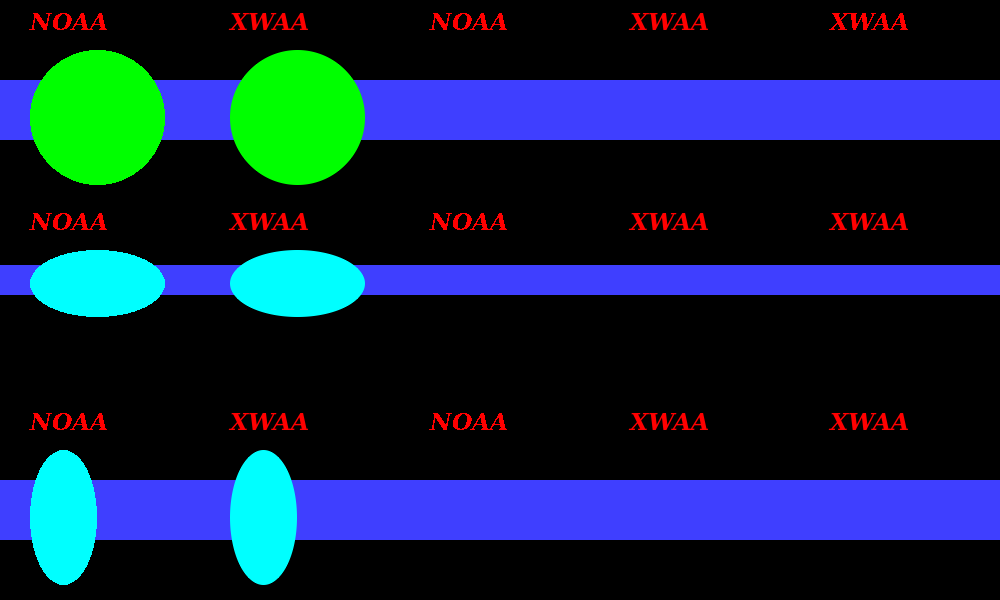
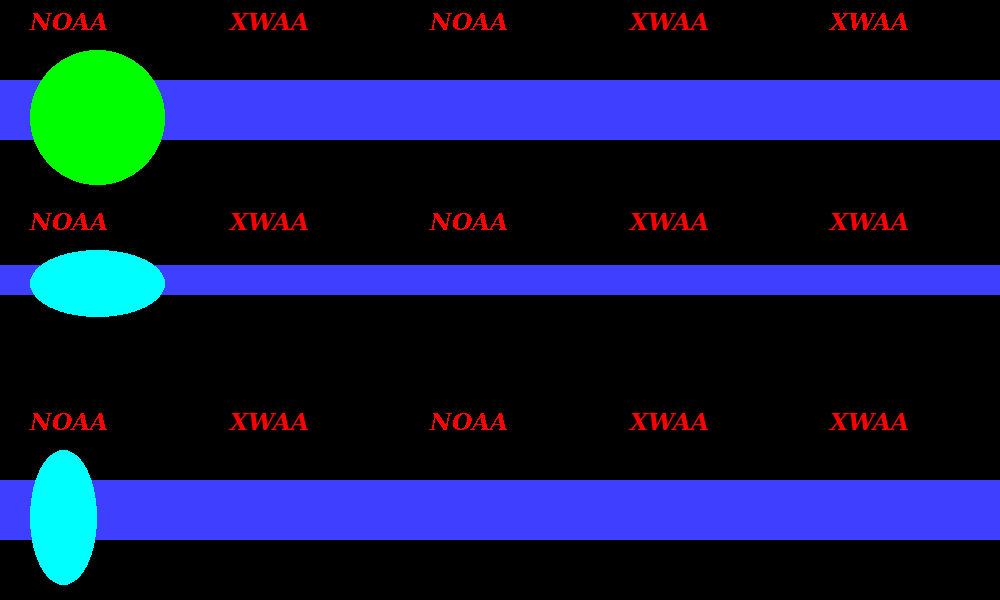
Reducing memory usage in fillEllipse

Changed region(s): [[0.217, 0.06, 0.372, 0.33], [0.217, 0.75, 0.31, 0.99], [0.217, 0.39, 0.372, 0.54]]

diff --git a/src/Pt-Gfx/ImagePainter2.cpp b/src/Pt-Gfx/ImagePainter2.cpp
@@ -231,6 +231,18 @@ void ImagePainter2::drawEllipse( const PointF& topLeft, const SizeF& size )
 // Inspired by http://create.stephan-brumme.com/antialiased-circle
 void ImagePainter2::fillEllipse( const PointF& topLeft, const SizeF& size )
 {
+/*
+Pt::Gfx - CompositionMode::SourceCopy
+    Solid-filled    ellipse          @ ImagePainter  =      5
+    Solid-filled    ellipse NOAA     @ ImagePainter2 =      6 ( 1.200)
+    Solid-filled    ellipse XWAA     @ ImagePainter2 =     36 ( 7.200)
+
+Pt::Gfx - CompositionMode::SourceOver
+    Solid-filled    ellipse          @ ImagePainter  =     37
+    Solid-filled    ellipse NOAA     @ ImagePainter2 =     24 ( 0.649)
+    Solid-filled    ellipse XWAA     @ ImagePainter2 =     54 ( 1.459)
+*/
+
     // Update the gradient as needed
     _rasterizer->updateGradientBrushAsNeeded(size.width(), size.height());
 
@@ -242,7 +254,7 @@ void ImagePainter2::fillEllipse( const PointF& topLeft, const SizeF& size )
 
     // List of anti-aliased 4-pixels and spans to be drawn later
     std::vector<AA4Pixels> aa4Pixels;
-    std::vector<AASpan>    aaSpans;
+    AASpans                aaSpans;
 
     // Calculate the ellipse's parameters
     Pt::int32_t minX  = topLeft.x();
@@ -258,55 +270,68 @@ void ImagePainter2::fillEllipse( const PointF& topLeft, const SizeF& size )
     Pt::int32_t quarters = round( radX2 * fastInvSqrt(radX2 + radY2) );
 
     for(Pt::int32_t x = 0; x <= quarters; ++x) {
+        // Calculate the coordinate and alpha
         const float       y     = radY * fastSqrt(1 - (float) x * x / radX2);
-        const float       error = y - floor(y);
+        const Pt::int32_t fly   = floor(y);
+        const float       error = y - fly;
         const Pt::uint8_t alpha = round(error * 255);
-        aa4Pixels.push_back( AA4Pixels( ctrX, ctrY, x, floor(y),     255 - alpha ) );
-        aa4Pixels.push_back( AA4Pixels( ctrX, ctrY, x, floor(y) + 1,       alpha ) );
-        aaSpans  .push_back( AASpan   ( ctrX - x, ctrX + x, ctrY - floor(y)      ) );
-        aaSpans  .push_back( AASpan   ( ctrX - x, ctrX + x, ctrY + floor(y)      ) );
+        // Store the circumference's pixel coordinates
+        aa4Pixels.push_back( AA4Pixels( ctrX, ctrY, x, fly,     255 - alpha ) );
+        aa4Pixels.push_back( AA4Pixels( ctrX, ctrY, x, fly + 1,       alpha ) );
+        // Store/update the span coordinates
+        AASpans::iterator it1 = aaSpans.find(ctrY - fly);
+        AASpans::iterator it2 = aaSpans.find(ctrY + fly);
+        if(it1 == aaSpans.end()) { // Insert a new element
+            aaSpans.insert( std::make_pair( ctrY - fly, AASpanElement(ctrX - x, ctrX + x) ) );
+        }
+        else { // Update the span's "from" and "to" coordinates
+            if( ctrX - x < it1->second.from ) it1->second.from = ctrX - x;
+            if( ctrX + x > it1->second.to   ) it1->second.to   = ctrX + x;
+        }
+        if(it2 == aaSpans.end()) { // Insert a new element
+            aaSpans.insert( std::make_pair( ctrY + fly, AASpanElement(ctrX - x, ctrX + x) ) );
+        }
+        else { // Update the span's "from" and "to" coordinates
+            if( ctrX - x < it2->second.from ) it2->second.from = ctrX - x;
+            if( ctrX + x > it2->second.to   ) it2->second.to   = ctrX + x;
+        }
     }
 
     // Left and right halves
     quarters = round( radY2 * fastInvSqrt(radX2 + radY2) );
 
     for(Pt::int32_t y = 0; y <= quarters; ++y) {
+        // Calculate the coordinate and alpha
         const float       x     = radX * fastSqrt(1 - (float) y * y / radY2);
-        const float       error = x - floor(x);
+        const Pt::int32_t flx   = floor(x);
+        const float       error = x - flx;
         const Pt::uint8_t alpha = round(error * 255);
-        aa4Pixels.push_back( AA4Pixels( ctrX, ctrY, floor(x),     y, 255 - alpha   ) );
-        aa4Pixels.push_back( AA4Pixels( ctrX, ctrY, floor(x) + 1, y,       alpha   ) );
-        aaSpans  .push_back( AASpan   ( ctrX - floor(x), ctrX + floor(x), ctrY - y ) );
-        aaSpans  .push_back( AASpan   ( ctrX - floor(x), ctrX + floor(x), ctrY + y ) );
-    }
+        // Store the circumference's pixel coordinates
+        aa4Pixels.push_back( AA4Pixels( ctrX, ctrY, flx,     y, 255 - alpha   ) );
+        aa4Pixels.push_back( AA4Pixels( ctrX, ctrY, flx + 1, y,       alpha   ) );
 
-    // Sort the spans by ascending Y coordinates
-    std::sort(aaSpans.begin(), aaSpans.end());
-
-    // Combine multiple spans with the same Y coordinates into one
-    std::vector<AASpan> aaSpansCombined;
-    Pt::int32_t         prevPixelY = ImagePainter2::MaximumCoordinate;
-
-    for(std::vector<AASpan>::const_iterator it = aaSpans.begin(); it != aaSpans.end(); ++it) {
-        // Skip spans that are too short
-        if(it->to - it->from <= 2) continue;
-        // Check if it is on the same Y coordinate
-        if(prevPixelY == it->pixelY) {
-            // Update the span's "from" and "to" coordinates
-            if(it->from < aaSpansCombined.back().from) aaSpansCombined.back().from = it->from;
-            if(it->to   > aaSpansCombined.back().to  ) aaSpansCombined.back().to   = it->to;
-            continue;
+        // Store/update the span coordinates
+        AASpans::iterator it1 = aaSpans.find(ctrY - y);
+        AASpans::iterator it2 = aaSpans.find(ctrY + y);
+        if(it1 == aaSpans.end()) { // Insert a new element
+            aaSpans.insert( std::make_pair( ctrY - y, AASpanElement(ctrX - flx, ctrX + flx) ) );
         }
-        prevPixelY = it->pixelY;
-        // Strore the span
-        aaSpansCombined.push_back(*it);
+        else { // Update the span's "from" and "to" coordinates
+            if( ctrX - flx < it1->second.from ) it1->second.from = ctrX - flx;
+            if( ctrX + flx > it1->second.to   ) it1->second.to   = ctrX + flx;
+        }
+        if(it2 == aaSpans.end()) { // Insert a new element
+            aaSpans.insert( std::make_pair( ctrY + y, AASpanElement(ctrX - flx, ctrX + flx) ) );
+        }
+        else { // Update the span's "from" and "to" coordinates
+            if( ctrX - flx < it2->second.from ) it2->second.from = ctrX - flx;
+            if( ctrX + flx > it2->second.to   ) it2->second.to   = ctrX + flx;
+        }
     }
-
-    aaSpans.clear();
 
     // Draw the spans
-    for(std::vector<AASpan>::const_iterator it = aaSpansCombined.begin(); it != aaSpansCombined.end(); ++it) {
-        _rasterizer->fillOneScanlineNoAA(it->from, it->to, it->pixelY, minX, minY);
+    for(AASpans::const_iterator it = aaSpans.begin(); it != aaSpans.end(); ++it) {
+        _rasterizer->fillOneScanlineNoAA(it->second.from, it->second.to, it->first, minX, minY);
     }
 
     // Draw the pixels
@@ -317,14 +342,14 @@ void ImagePainter2::fillEllipse( const PointF& topLeft, const SizeF& size )
         const Pt::int32_t y1 = it->centerY - it->deltaY;
         const Pt::int32_t y2 = it->centerY + it->deltaY;
         // Check if the pixels shall really be drawn
+        AASpans::iterator it1 = aaSpans.find(y1);
+        AASpans::iterator it2 = aaSpans.find(y2);
+
         bool drawIt = true;
-        for(std::vector<AASpan>::const_iterator jt = aaSpansCombined.begin(); jt != aaSpansCombined.end(); ++jt) {
-            if(jt->pixelY != y1 && jt->pixelY != y2) continue;
-            if(jt->from <= x1 || jt->to >= x2) {
-                drawIt = false;
-                break;
-            }
-        }
+
+        if( it1 != aaSpans.end() && (it1->second.from <= x1 || it1->second.to >= x2) ) drawIt = false;
+        if( it2 != aaSpans.end() && (it2->second.from <= x1 || it2->second.to >= x2) ) drawIt = false;
+
         if(!drawIt) continue;
         // Draw the pixel
         _rasterizer->fill4Pixels(x1, y1, x2, y2, minX, minY, it->alpha);
@@ -402,16 +427,19 @@ void ImagePainter2::drawOnePixelSolidEllipseArcImpl(const PointF& topLeft, const
     Pt::int32_t quarters = round( radX2 * fastInvSqrt(radX2 + radY2) );
 
     for(Pt::int32_t x = 0; x <= quarters; ++x) {
+        // Calculate the coordinate and alpha
         const float       y     = radY * fastSqrt(1 - (float) x * x / radX2);
         const float       error = y - floor(y);
         const Pt::uint8_t alpha = round(error * 255);
         // Without anti-aliasing
         if(_rasterizer->antiAliasingMode() == AntiAliasingMode::None) {
+            // Calculate the coordinates
             const Pt::int32_t xl = ctrX - x;
             const Pt::int32_t xr = ctrX + x;
             const Pt::int32_t yt = ctrY - round(y);
             const Pt::int32_t yb = ctrY + round(y);
-             if(drawArc) {
+            // Arc
+            if(drawArc) {
                  // Draw the pixels
                  const bool mask[4] = {
                      insideDegRange(xl, yt, ctrX, ctrY, degBegin, degEnd),
@@ -431,19 +459,22 @@ void ImagePainter2::drawOnePixelSolidEllipseArcImpl(const PointF& topLeft, const
                 if(abs(yb - by) < y1d) { y1d = abs(yb - by); y1 = yb; }
                 if(abs(yb - ey) < y2d) { y2d = abs(yb - ey); y2 = yb; }
              }
-             else { // Ellipse
+             // Ellipse
+             else {
                 _rasterizer->stroke4Pixels(xl, yt, xr, yb);
              }
         }
         // With anti-aliasing
         else {
+            // Calculate the coordinates
             const Pt::int32_t xl  = ctrX - x;
             const Pt::int32_t xr  = ctrX + x;
             const Pt::int32_t yt0 = ctrY - floor(y);
             const Pt::int32_t yb0 = ctrY + floor(y);
             const Pt::int32_t yt1 = ctrY - floor(y) - 1;
             const Pt::int32_t yb1 = ctrY + floor(y) + 1;
-             if(drawArc) {
+            // Arc
+            if(drawArc) {
                  // Draw the pixels
                  const bool mask0[4] = {
                      insideDegRange(xl, yt0, ctrX, ctrY, degBegin, degEnd),
@@ -473,11 +504,12 @@ void ImagePainter2::drawOnePixelSolidEllipseArcImpl(const PointF& topLeft, const
                 if(abs(yt1 - ey) < y2d) { y2d = abs(yt1 - ey); y2 = yt1; }
                 if(abs(yb1 - by) < y1d) { y1d = abs(yb1 - by); y1 = yb1; }
                 if(abs(yb1 - ey) < y2d) { y2d = abs(yb1 - ey); y2 = yb1; }
-             }
-             else { // Ellipse
+            }
+            // Ellipse
+            else {
                 _rasterizer->stroke4Pixels(xl, yt0, xr, yb0, 255 - alpha);
                 _rasterizer->stroke4Pixels(xl, yt1, xr, yb1,       alpha);
-             }
+            }
         }
     }
 
@@ -485,16 +517,19 @@ void ImagePainter2::drawOnePixelSolidEllipseArcImpl(const PointF& topLeft, const
     quarters = round( radY2 * fastInvSqrt(radX2 + radY2) );
 
     for(Pt::int32_t y = 0; y <= quarters; ++y) {
+        // Calculate the coordinate and alpha
         const float       x     = radX * fastSqrt(1 - (float) y * y / radY2);
         const float       error = x - floor(x);
         const Pt::uint8_t alpha = round(error * 255);
         // Without anti-aliasing
         if(_rasterizer->antiAliasingMode() == AntiAliasingMode::None) {
+            // Calculate the coordinates
             const Pt::int32_t xl = ctrX - round(x);
             const Pt::int32_t xr = ctrX + round(x);
             const Pt::int32_t yt = ctrY - y;
             const Pt::int32_t yb = ctrY + y;
-             if(drawArc) {
+            // Arc
+            if(drawArc) {
                  // Draw the pixels
                  const bool mask[4] = {
                      insideDegRange(xl, yt, ctrX, ctrY, degBegin, degEnd),
@@ -514,20 +549,22 @@ void ImagePainter2::drawOnePixelSolidEllipseArcImpl(const PointF& topLeft, const
                 if(abs(yb - by) < y1d) { y1d = abs(yb - by); y1 = yb; }
                 if(abs(yb - ey) < y2d) { y2d = abs(yb - ey); y2 = yb; }
              }
-             else { // Ellipse
+             // Ellipse
+             else {
                 _rasterizer->stroke4Pixels(xl, yt, xr, yb);
              }
-
         }
         // With anti-aliasing
         else {
+            // Calculate the coordinates
             const Pt::int32_t xl0 = ctrX - floor(x);
             const Pt::int32_t xr0 = ctrX + floor(x);
             const Pt::int32_t xl1 = ctrX - floor(x) - 1;
             const Pt::int32_t xr1 = ctrX + floor(x) + 1;
             const Pt::int32_t yt  = ctrY - y;
             const Pt::int32_t yb  = ctrY + y;
-             if(drawArc) {
+            // Arc
+            if(drawArc) {
                  // Draw the pixels
                  const bool mask0[4] = {
                      insideDegRange(xl0, yt, ctrX, ctrY, degBegin, degEnd),
@@ -557,11 +594,12 @@ void ImagePainter2::drawOnePixelSolidEllipseArcImpl(const PointF& topLeft, const
                 if(abs(yt  - ey) < y2d) { y2d = abs(yt  - ey); y2 = yt;  }
                 if(abs(yb  - by) < y1d) { y1d = abs(yb  - by); y1 = yb;  }
                 if(abs(yb  - ey) < y2d) { y2d = abs(yb  - ey); y2 = yb;  }
-             }
-             else { // Ellipse
+            }
+            // Ellipse
+            else {
                 _rasterizer->stroke4Pixels(xl0, yt, xr0, yb, 255 - alpha);
                 _rasterizer->stroke4Pixels(xl1, yt, xr1, yb,       alpha);
-             }
+            }
         }
     }
 

diff --git a/src/Pt-Gfx/tests/ImagePainterTest2.cpp b/src/Pt-Gfx/tests/ImagePainterTest2.cpp
@@ -48,19 +48,19 @@ using namespace Pt::Gfx;
 #define DO_BENCHMARKING 1
 
 // Detailed-test enable settings for Pt-Gfx
-#define TEST_SOURCECOPY                        1
-#define TEST_SOURCEOVER                        0
+#define TEST_SOURCECOPY                        0
+#define TEST_SOURCEOVER                        1
 
 #define TEST_DRAW_LINE_AND_TEXT                0
 #define TEST_DRAW_RECTANGLES_FILLED_RECTANGLES 0
 
-#define TEST_DRAW_ELLIPSES_ARCS                1
+#define TEST_DRAW_ELLIPSES_ARCS                0
 
 #define TEST_DRAW_SOLID_FILLED_POLYGONS        0
 #define TEST_DRAW_GRADIENT_FILLED_POLYGONS     0
 #define TEST_DRAW_TEXTURE_FILLED_POLYGONS      0
 
-#define TEST_DRAW_SOLID_FILLED_ELLIPSE         0
+#define TEST_DRAW_SOLID_FILLED_ELLIPSE         1
 #define TEST_DRAW_GRADIENT_FILLED_ELLIPSE      0
 #define TEST_DRAW_TEXTURE_FILLED_ELLIPSE       0
 
@@ -74,8 +74,8 @@ using namespace Pt::Gfx;
 
 #define BENCHMARK_TEXT                      0
 #define BENCHMARK_LINE                      0
-#define BENCHMARK_ELLIPSE                   1
-#define BENCHMARK_ARC                       1
+#define BENCHMARK_ELLIPSE                   0
+#define BENCHMARK_ARC                       0
 
 #define BENCHMARK_RECTANGLE                 0
 #define BENCHMARK_SOLID_FILLED_RECTANGLE    0
@@ -86,7 +86,7 @@ using namespace Pt::Gfx;
 #define BENCHMARK_GRADIENT_FILLED_POLYGON   0
 #define BENCHMARK_TEXTURE_FILLED_POLYGON    0
 
-#define BENCHMARK_SOLID_FILLED_ELLIPSE      0
+#define BENCHMARK_SOLID_FILLED_ELLIPSE      1
 #define BENCHMARK_GRADIENT_FILLED_ELLIPSE   0
 #define BENCHMARK_TEXTURE_FILLED_ELLIPSE    0
 

diff --git a/include/Pt/Gfx/ImagePainter2.h b/include/Pt/Gfx/ImagePainter2.h
@@ -127,7 +127,11 @@ class PT_GFX_API ImagePainter2 : public Painter
 
         // Helper structures
         struct AA4Pixels; // Specify four pixels with alpha
-        struct AASpan;    // Specify a span (scanline)
+
+        // Each key specify the Y coordinate of a span (scanline);
+        // while its element specify the "from" and "to" X coordinates
+        struct AASpanElement;
+        typedef std::map<Pt::int32_t, AASpanElement> AASpans;
 
         // Helper functions
         static float fastInvSqrt(float x);
@@ -159,21 +163,13 @@ struct ImagePainter2::AA4Pixels {
     {}
 };
 
-struct ImagePainter2::AASpan {
+struct ImagePainter2::AASpanElement {
     Pt::int32_t from;
     Pt::int32_t to;
-    Pt::int32_t pixelY;
 
-    AASpan(Pt::int32_t from_, Pt::int32_t to_, Pt::int32_t pixelY_)
-    : from(from_), to(to_), pixelY(pixelY_)
+    AASpanElement(Pt::int32_t from_, Pt::int32_t to_)
+    : from(from_), to(to_)
     {}
-
-    bool operator < (const AASpan& ref) const
-    {
-        if(pixelY < ref.pixelY) return true;
-        if(pixelY > ref.pixelY) return false;
-        return from < ref.to;
-    }
 };
 
 #if defined(__arm__) || defined(__thumb__) || defined(_M_ARM) || defined(_M_ARMT) || defined(__TARGET_ARCH_ARM) || defined(__TARGET_ARCH_THUMB) || defined(_ARM) || defined(__arm)
